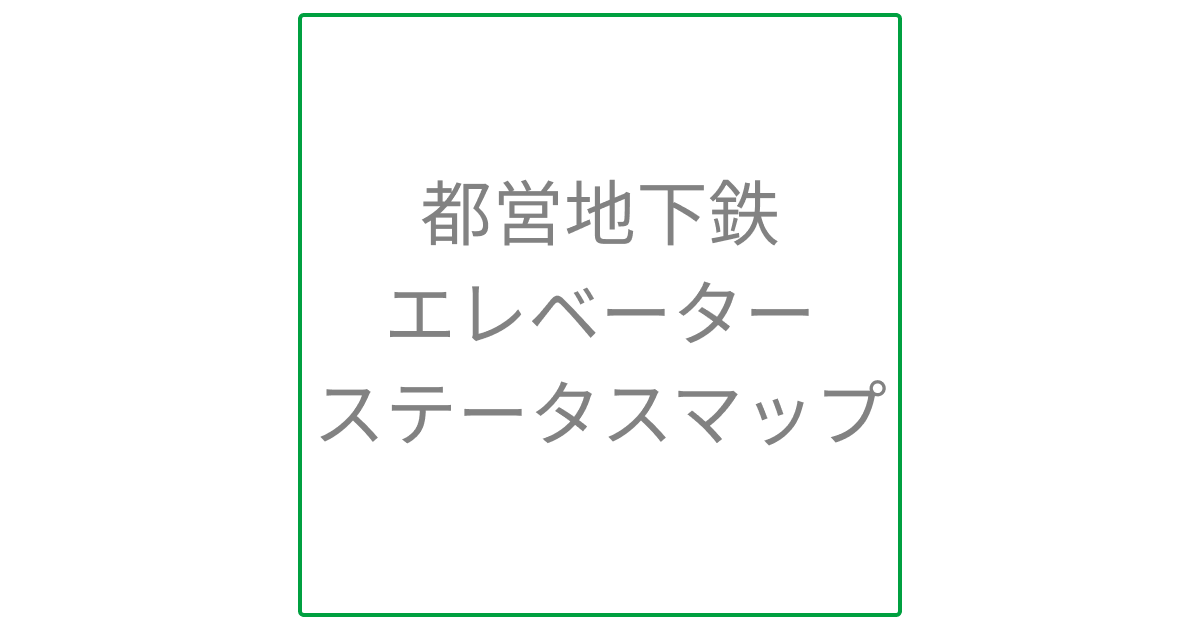
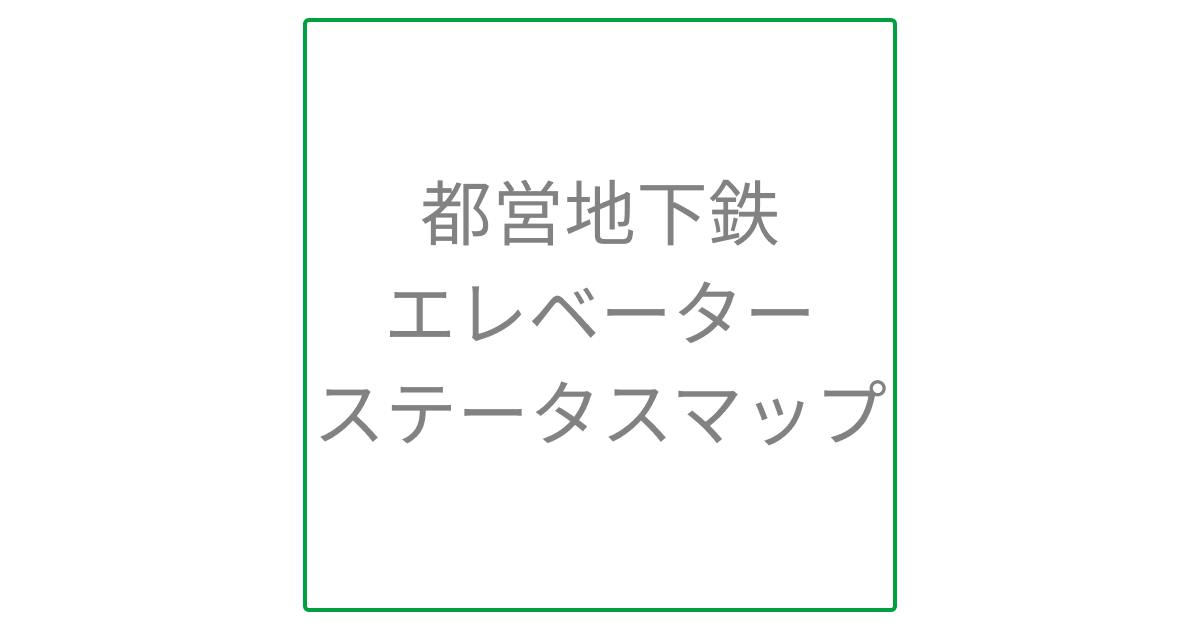
fix ogp image and github link

Changed region(s): [[0.2467, 0.0, 0.7708, 0.9952]]

diff --git a/index.html b/index.html
@@ -248,7 +248,7 @@
                         rel="noopener">東京都オープンデータカタログサイト 都営地下鉄各駅エレベーター点検・工事日程データ →</a> を元にしています。</p>
                 <h3>ソースコードについて</h3>
                 <p>当サイトのソースコードはMITライセンスで公開されており、誰でも自由に利用することができます。 詳しくは、 <a
-                        href="https://github.com/terachan0117/toei-transportation-elevators-status-maps/"
+                        href="https://github.com/terachan0117/toei-subway-elevators-status-maps/"
                         target="_blank" rel="noopener">GitHubレポジトリ →</a> をご確認ください。</p>
                 <h3>免責事項</h3>
                 <p>当サイトに掲載されている情報の正確性については万全を期していますが、運営者は利用者が当サイトの情報を用いて行う一切の行為について責任を負うものではありません。</p>
